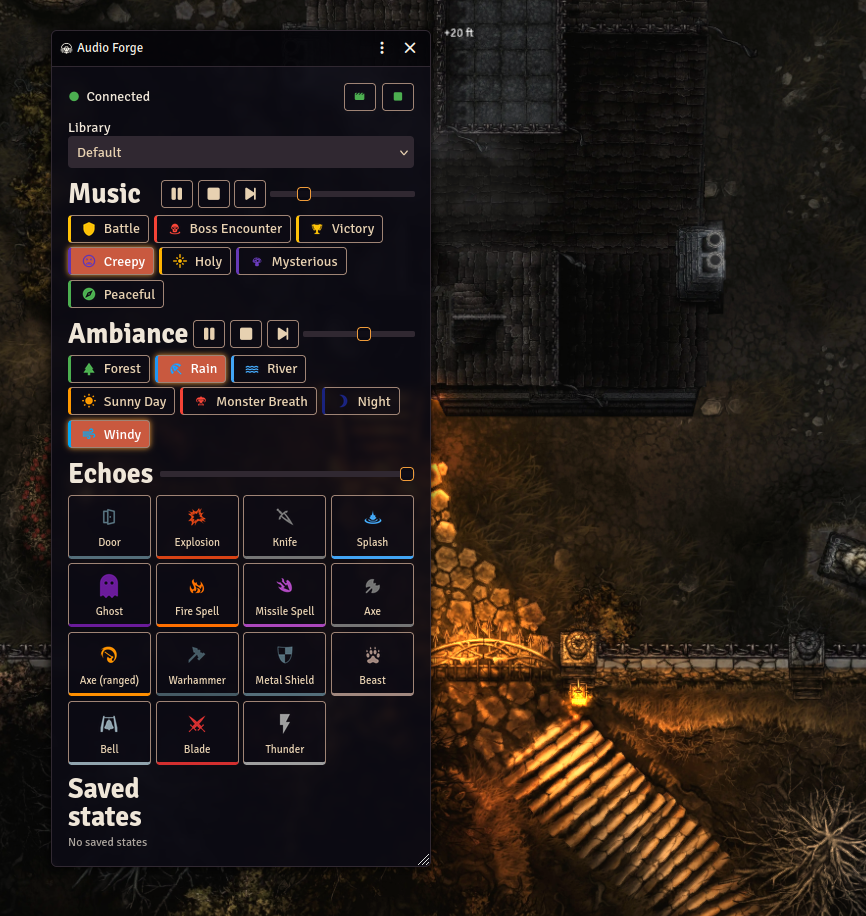
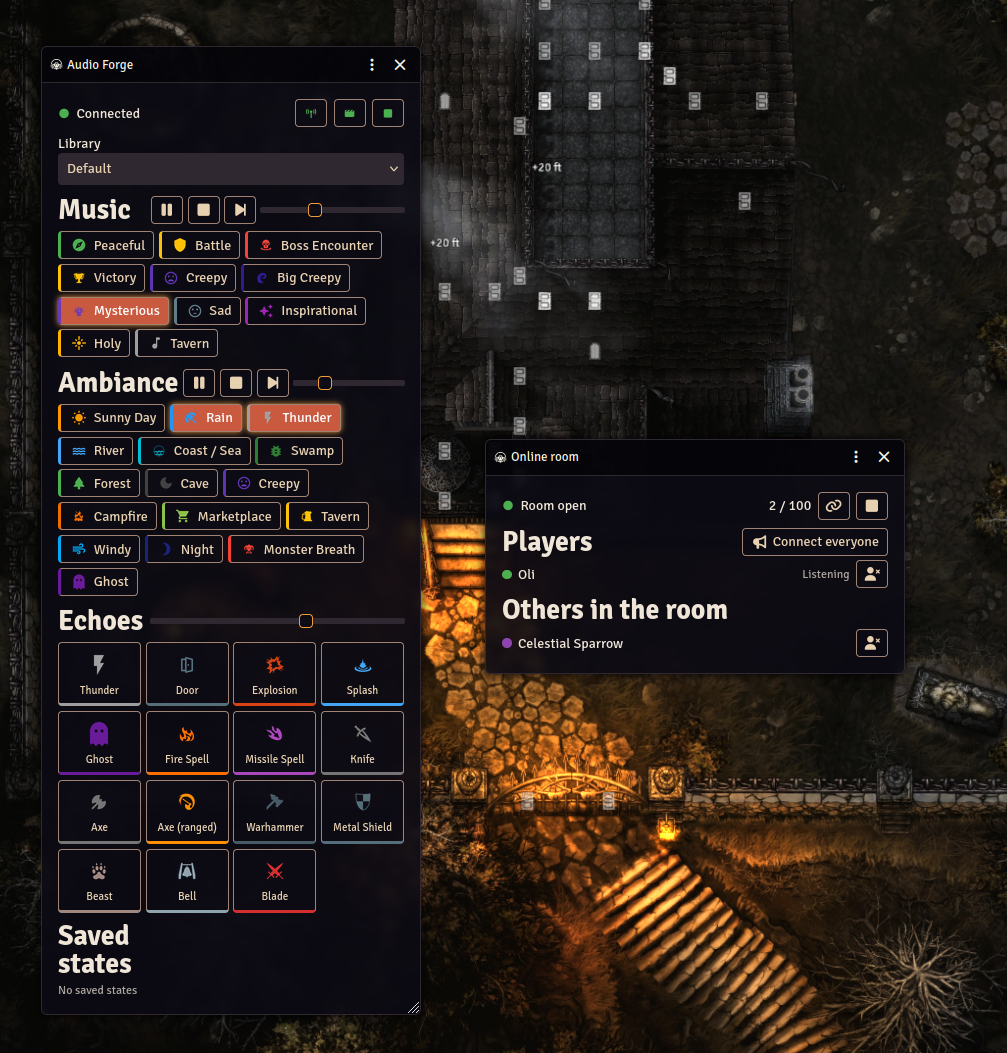
docs: replace the screenshot with the panel and the online room window

diff --git a/README.md b/README.md
@@ -2,7 +2,7 @@
 
 Drive the [Audio Forge](https://slashpaf.com/audioforge) soundboard from Foundry VTT over Audio Forge's Local API (HTTP + WebSocket). No cloud account or MQTT broker.
 
-![The Audio Forge control panel in Foundry VTT](docs/audio-forge-panel.png)
+![The Audio Forge control panel and the online room window in Foundry VTT](docs/audio-forge-panel.png)
 
 ## What it does
 
